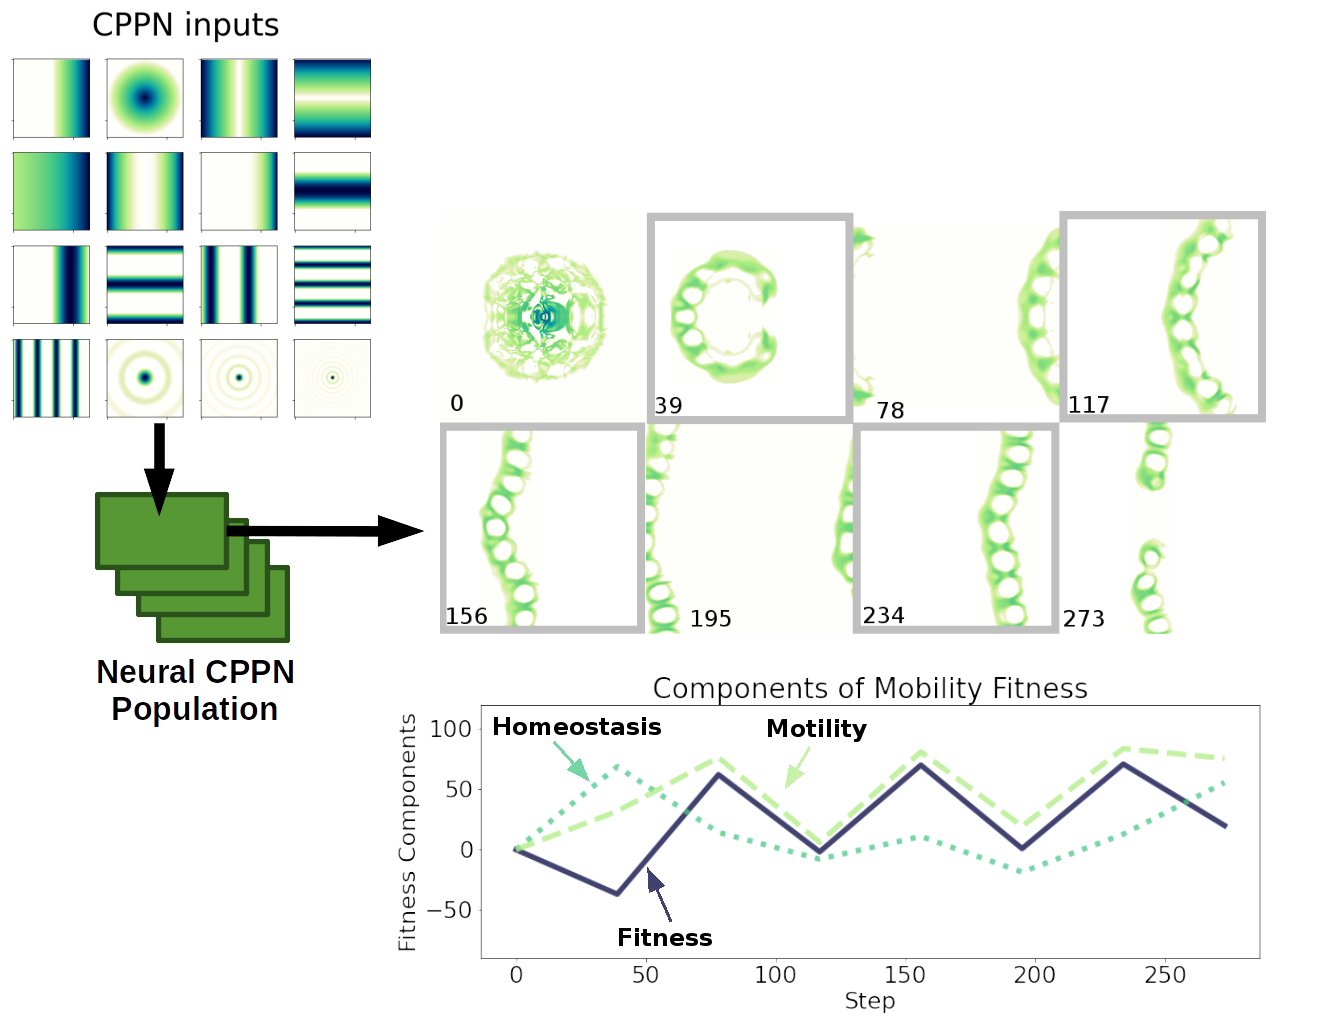
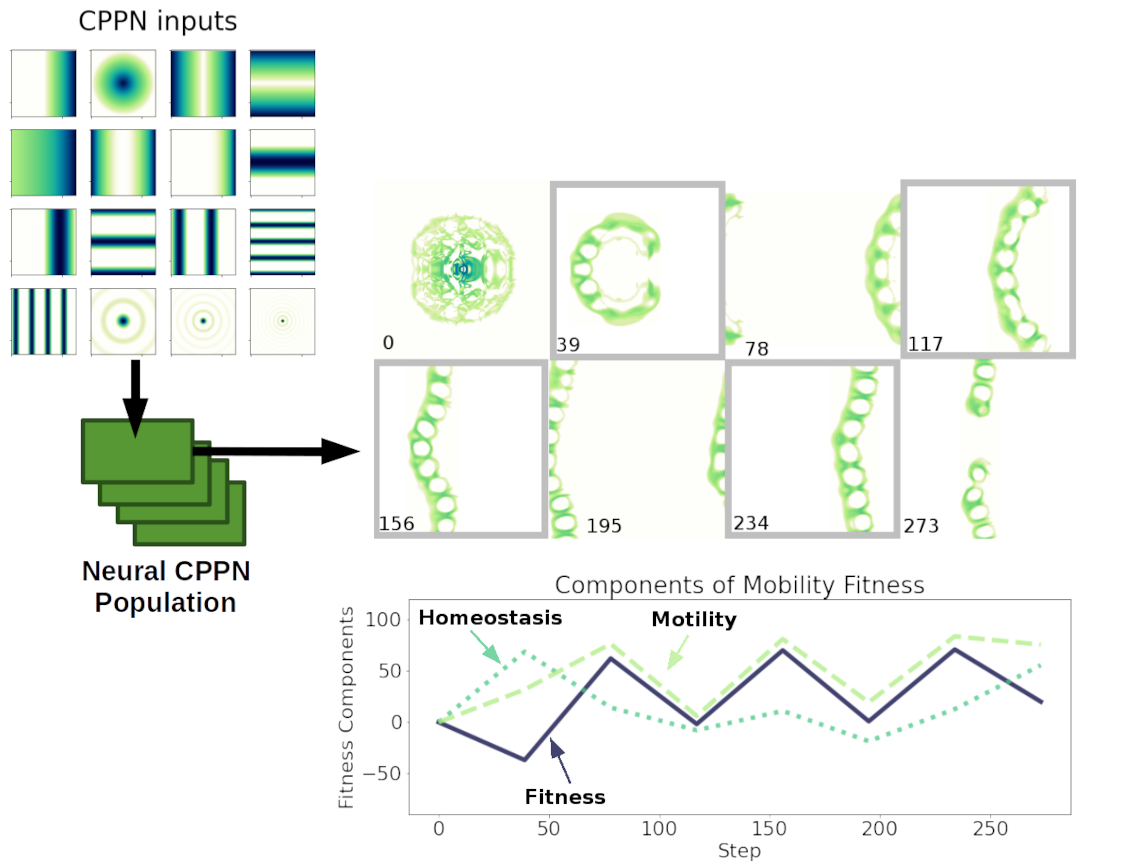
change images from html to markdown and downsize cppn summary fgure

diff --git a/docs/evo_abio.md b/docs/evo_abio.md
@@ -24,6 +24,8 @@ Complicated and carefully engineered CA systems in the tradition of John Von Neu
 
 Unlike Von Neumann's 29-state CA, we can describe the development of Conway's Life as evolution via selection for human preferences. One of the selection criteria that emerged under and encompassing search for something interesting was the simultaneous support for opposing capabilities to grow without bound or to vanish completely. In fact the inability to predict whether a given pattern under a given set of CA ruleswill persist or vanish is in fact a version of the halting _Entscheidungensproblem_ (decision problem).
 
+
+{:style="text-align:center;"}
 [![John Horton Conway](https://raw.githubusercontent.com/riveSunder/yuca/gecco_2022_pages/assets/halting_evo/john_h_conway_2005_quote.jpg)](https://www.youtube.com/watch?v=R9Plq-D1gEk&t=490s) 
 
 _In the article introducing the public to Conway's Game of Life (In Martin Gardner's 'Mathematical Games' column of Scientific American [^Ga1970]), a prize was offered for the first proof of a pattern in Life that exhibits indefinite growth. Quote is from a 2011 interview with John Conway by Dierk Schleicher [^Sc2011]. Image is adapted from [photograph CC BY Thane Plambeck](https://www.flickr.com/photos/thane/20366806)_
@@ -84,74 +86,63 @@ Most of the glider patterns evolved in Lenia CA were previously documented in [^
 ### _Hydrogeminium natans_ 
 
 {:style="text-align:center;"}
-![hydrogeminium wobbly glider](https://raw.githubusercontent.com/riveSunder/yuca/gecco_2022_pages/assets/halting_evo/lenia/gif_exp_gemini_pattern_101_103_107_109_1643777919_end_101_elite0_0278.gif)
+[![hydrogeminium wobbly glider](https://raw.githubusercontent.com/riveSunder/yuca/gecco_2022_pages/assets/halting_evo/lenia/gif_exp_gemini_pattern_101_103_107_109_1643777919_end_101_elite0_0278.gif)](https://raw.githubusercontent.com/riveSunder/yuca/gecco_2022_pages/assets/halting_evo/lenia/gif_exp_gemini_pattern_101_103_107_109_1643777919_end_101_elite0_0278.gif)
 
-<p align="center">
-<img src="https://raw.githubusercontent.com/riveSunder/yuca/gecco_2022_pages/assets/halting_evo/lenia/hydrogeminum_natans_cucumberiform.gif" width=50%>
-</p>
+{:style="text-align:center;"}
+[![alt text](https://raw.githubusercontent.com/riveSunder/yuca/gecco_2022_pages/assets/halting_evo/lenia/hydrogeminum_natans_cucumberiform.gif)](https://raw.githubusercontent.com/riveSunder/yuca/gecco_2022_pages/assets/halting_evo/lenia/hydrogeminum_natans_cucumberiform.gif)
 
 
 ### _Discutium solidus_ 
 
-<p align="center">
-<img src="https://raw.githubusercontent.com/riveSunder/yuca/gecco_2022_pages/assets/halting_evo/lenia/gif_exp_discutium_solidus_pattern_1645113835_end_107_elite0_0777.gif" width=50%>
-</p>
+{:style="text-align:center;"}
+[![alt text](https://raw.githubusercontent.com/riveSunder/yuca/gecco_2022_pages/assets/halting_evo/lenia/gif_exp_discutium_solidus_pattern_1645113835_end_107_elite0_0777.gif)](https://raw.githubusercontent.com/riveSunder/yuca/gecco_2022_pages/assets/halting_evo/lenia/gif_exp_discutium_solidus_pattern_1645113835_end_107_elite0_0777.gif)
 
 
 ### _Discutium valvatus_ 
 
-<p align="center">
-<img src="https://raw.githubusercontent.com/riveSunder/yuca/gecco_2022_pages/assets/halting_evo/lenia/gif_exp_discutium_valvatus_pattern_1645176529_end_107_elite3_0636.gif" width=50%>
-</p>
+{:style="text-align:center;"}
+[![alt text](https://raw.githubusercontent.com/riveSunder/yuca/gecco_2022_pages/assets/halting_evo/lenia/gif_exp_discutium_valvatus_pattern_1645176529_end_107_elite3_0636.gif)](https://raw.githubusercontent.com/riveSunder/yuca/gecco_2022_pages/assets/halting_evo/lenia/gif_exp_discutium_valvatus_pattern_1645176529_end_107_elite3_0636.gif)
 
 ### _Scutium gravidus_ 
 
-<p align="center">
-<img src="https://raw.githubusercontent.com/riveSunder/yuca/gecco_2022_pages/assets/halting_evo/lenia/gif_exp_scutium_gravidus_pattern_1645188721_end_107_elite4_0271.gif" width=50%>
-</p>
+{:style="text-align:center;"}
+[![alt text](https://raw.githubusercontent.com/riveSunder/yuca/gecco_2022_pages/assets/halting_evo/lenia/gif_exp_scutium_gravidus_pattern_1645188721_end_107_elite4_0271.gif)](https://raw.githubusercontent.com/riveSunder/yuca/gecco_2022_pages/assets/halting_evo/lenia/gif_exp_scutium_gravidus_pattern_1645188721_end_107_elite4_0271.gif)
 
 ### _Scutium solidus_ 
 
-<p align="center">
-<img src="https://raw.githubusercontent.com/riveSunder/yuca/gecco_2022_pages/assets/halting_evo/lenia/gif_exp_scutium_solidus_pattern_1645085384_end_101_elite2_0483.gif" width=50%>
-</p>
+{:style="text-align:center;"}
+[![alt text](https://raw.githubusercontent.com/riveSunder/yuca/gecco_2022_pages/assets/halting_evo/lenia/gif_exp_scutium_solidus_pattern_1645085384_end_101_elite2_0483.gif)](https://raw.githubusercontent.com/riveSunder/yuca/gecco_2022_pages/assets/halting_evo/lenia/gif_exp_scutium_solidus_pattern_1645085384_end_101_elite2_0483.gif)
 
 ### _Scutium valvatus_ 
 
-<p align="center">
-<img src="https://raw.githubusercontent.com/riveSunder/yuca/gecco_2022_pages/assets/halting_evo/lenia/gif_exp_scutium_valvatus_pattern_1645188440_end_101_elite5_0525.gif" width=50%>
-</p>
+{:style="text-align:center;"}
+[![alt text](https://raw.githubusercontent.com/riveSunder/yuca/gecco_2022_pages/assets/halting_evo/lenia/gif_exp_scutium_valvatus_pattern_1645188440_end_101_elite5_0525.gif)](https://raw.githubusercontent.com/riveSunder/yuca/gecco_2022_pages/assets/halting_evo/lenia/gif_exp_scutium_valvatus_pattern_1645188440_end_101_elite5_0525.gif)
 
 ### _Paraptera sinus labens_ 
 
-<p align="center">
-<img src="https://raw.githubusercontent.com/riveSunder/yuca/gecco_2022_pages/assets/halting_evo/lenia/gif_exp_p_sinus_labens_pattern_1645194743_end_107_elite0_0288.gif" width=50%>
-</p>
+{:style="text-align:center;"}
+[![alt text](https://raw.githubusercontent.com/riveSunder/yuca/gecco_2022_pages/assets/halting_evo/lenia/gif_exp_p_sinus_labens_pattern_1645194743_end_107_elite0_0288.gif)](https://raw.githubusercontent.com/riveSunder/yuca/gecco_2022_pages/assets/halting_evo/lenia/gif_exp_p_sinus_labens_pattern_1645194743_end_107_elite0_0288.gif)
 
 ### _Paraptera arcus labens_ 
 
-<p align="center">
-<img src="https://raw.githubusercontent.com/riveSunder/yuca/gecco_2022_pages/assets/halting_evo/lenia/gif_exp_p_arcus_labens_pattern_1649914682_end_11_elite0_0518.gif" width=50%>
-</p>
+{:style="text-align:center;"}
+[![alt text](https://raw.githubusercontent.com/riveSunder/yuca/gecco_2022_pages/assets/halting_evo/lenia/gif_exp_p_arcus_labens_pattern_1649914682_end_11_elite0_0518.gif)](https://raw.githubusercontent.com/riveSunder/yuca/gecco_2022_pages/assets/halting_evo/lenia/gif_exp_p_arcus_labens_pattern_1649914682_end_11_elite0_0518.gif)
 
 ### _Orbium_ 
 
-<p align="center">
-<img src="https://raw.githubusercontent.com/riveSunder/yuca/gecco_2022_pages/assets/halting_evo/lenia/gif_exp_orbium_pattern_1645177361_end_107_elite1_0657.gif" width=50%>
-</p>
+{:style="text-align:center;"}
+[![alt text](https://raw.githubusercontent.com/riveSunder/yuca/gecco_2022_pages/assets/halting_evo/lenia/gif_exp_orbium_pattern_1645177361_end_107_elite1_0657.gif)](https://raw.githubusercontent.com/riveSunder/yuca/gecco_2022_pages/assets/halting_evo/lenia/gif_exp_orbium_pattern_1645177361_end_107_elite1_0657.gif)
 
 ### _Orbium unicaudatus ignis_ 
 
-<p align="center">
-<img src="https://raw.githubusercontent.com/riveSunder/yuca/gecco_2022_pages/assets/halting_evo/lenia/gif_exp_o_bicaudatus_ignis_pattern_1645072355_end_103_elite3_0472.gif" width=50%>
-</p>
+{:style="text-align:center;"}
+[![alt text](https://raw.githubusercontent.com/riveSunder/yuca/gecco_2022_pages/assets/halting_evo/lenia/gif_exp_o_bicaudatus_ignis_pattern_1645072355_end_103_elite3_0472.gif)](https://raw.githubusercontent.com/riveSunder/yuca/gecco_2022_pages/assets/halting_evo/lenia/gif_exp_o_bicaudatus_ignis_pattern_1645072355_end_103_elite3_0472.gif)
 
 ### _Synorbium_ 
 
 
-<p align="center">
-<img src="https://raw.githubusercontent.com/riveSunder/yuca/gecco_2022_pages/assets/halting_evo/lenia/gif_exp_synorbium_pattern_1645177716_end_107_elite0_0592.gif" width=50%>
-</p>
+{:style="text-align:center;"}
+[![alt text](https://raw.githubusercontent.com/riveSunder/yuca/gecco_2022_pages/assets/halting_evo/lenia/gif_exp_synorbium_pattern_1645177716_end_107_elite0_0592.gif)](https://raw.githubusercontent.com/riveSunder/yuca/gecco_2022_pages/assets/halting_evo/lenia/gif_exp_synorbium_pattern_1645177716_end_107_elite0_0592.gif)
 
 ## Appendix 2: New patterns evolved in evolved CA
 
@@ -160,35 +151,31 @@ This section includes a selection of glider patterns that don't resemble Lenia p
 
 ### Evolved CA s613 (halting unpredictability selection) 
 
-<p align="center">
-<img src="https://raw.githubusercontent.com/riveSunder/yuca/gecco_2022_pages/assets/halting_evo/evolved/gif_exp_s613_pattern_1645038142_end_107_elite0_0991.gif" width=50%>
-</p>
+{:style="text-align:center;"}
+[![alt text](https://raw.githubusercontent.com/riveSunder/yuca/gecco_2022_pages/assets/halting_evo/evolved/gif_exp_s613_pattern_1645038142_end_107_elite0_0991.gif)](https://raw.githubusercontent.com/riveSunder/yuca/gecco_2022_pages/assets/halting_evo/evolved/gif_exp_s613_pattern_1645038142_end_107_elite0_0991.gif)
 
-<p align="center">
-<img src="https://raw.githubusercontent.com/riveSunder/yuca/gecco_2022_pages/assets/halting_evo/evolved/s613_fast_glider.gif" width=50%>
-</p>
+{:style="text-align:center;"}
+[![alt text](https://raw.githubusercontent.com/riveSunder/yuca/gecco_2022_pages/assets/halting_evo/evolved/s613_fast_glider.gif)](https://raw.githubusercontent.com/riveSunder/yuca/gecco_2022_pages/assets/halting_evo/evolved/s613_fast_glider.gif)
 
 ### Evolved CA s643 (Simple halting/persistence selection) 
 
-<p align="center">
-<img src="https://raw.githubusercontent.com/riveSunder/yuca/gecco_2022_pages/assets/halting_evo/evolved/gif_exp_simevgeminium_643_pattern_101_103_1643874810_end_101_elite0_0902.gif" width=50%>
-</p>
+{:style="text-align:center;"}
+[![alt text](https://raw.githubusercontent.com/riveSunder/yuca/gecco_2022_pages/assets/halting_evo/evolved/gif_exp_simevgeminium_643_pattern_101_103_1643874810_end_101_elite0_0902.gif)](https://raw.githubusercontent.com/riveSunder/yuca/gecco_2022_pages/assets/halting_evo/evolved/gif_exp_simevgeminium_643_pattern_101_103_1643874810_end_101_elite0_0902.gif)
 
 
 ### Evolved CA s11 (Simple halting/persistence selection) 
 
-<p align="center">
-<img src="https://raw.githubusercontent.com/riveSunder/yuca/gecco_2022_pages/assets/halting_evo/evolved/s11_slow.gif" width=50%>
-</p>
+{:style="text-align:center;"}
+[![alt text](https://raw.githubusercontent.com/riveSunder/yuca/gecco_2022_pages/assets/halting_evo/evolved/s11_slow.gif)](https://raw.githubusercontent.com/riveSunder/yuca/gecco_2022_pages/assets/halting_evo/evolved/s11_slow.gif)
 
 
 ### Unevolved CA (random selection) 
 
-<p align="center">
-<img src="https://raw.githubusercontent.com/riveSunder/yuca/gecco_2022_pages/assets/halting_evo/evolved/gif_rando_morpho_0955.gif" width=50%>
-<br>
-This CA rule set was "unevolved" <em>i.e.</em> instead of selection for halting/persistence or halting unpredictability, fitness was assigned at random. Nonetheless the rule set was able to support the pseudo-glider pattern shown above, evolved with the same center-of-mass and homeostasis selection mechanisms as the gliders found in evolved CA rule sets. The pattern is only pseudo-stable, however, and undergoes several shape changes before breaking down. 
-</p>
+{:style="text-align:center;"}
+[![alt text](https://raw.githubusercontent.com/riveSunder/yuca/gecco_2022_pages/assets/halting_evo/evolved/gif_rando_morpho_0955.gif)](https://raw.githubusercontent.com/riveSunder/yuca/gecco_2022_pages/assets/halting_evo/evolved/gif_rando_morpho_0955.gif)
+
+{:refdef: style="text-align: center;"}
+This CA rule set was "unevolved" _i.e._ instead of selection for halting/persistence or halting unpredictability, fitness was assigned at random. Nonetheless the rule set was able to support the pseudo-glider pattern shown above, evolved with the same center-of-mass and homeostasis selection mechanisms as the gliders found in evolved CA rule sets. The pattern is only pseudo-stable, however, and undergoes several shape changes before breaking down. 
 
 
 [^note1]: Consider the gap in diversity of domestic versus wild life. 
